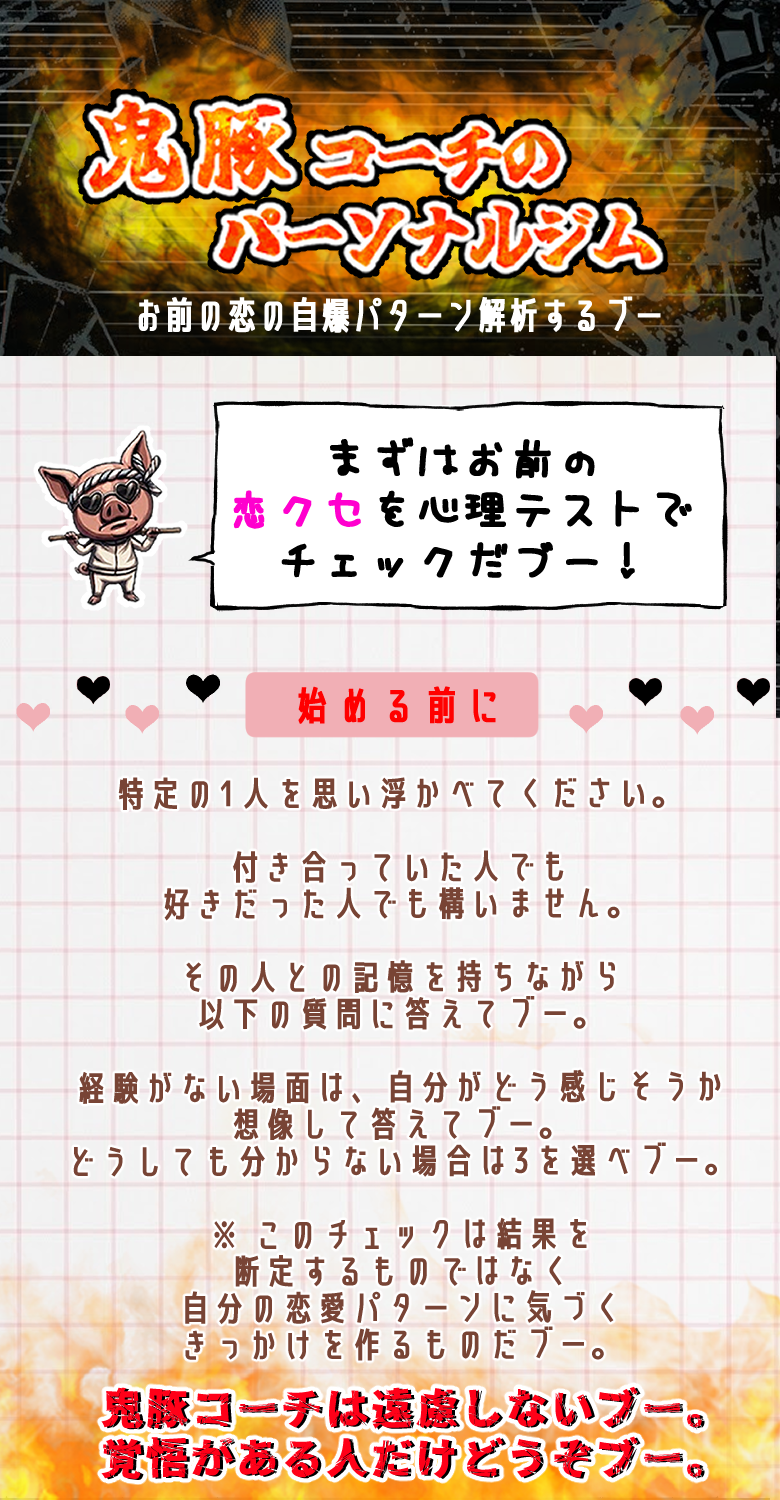
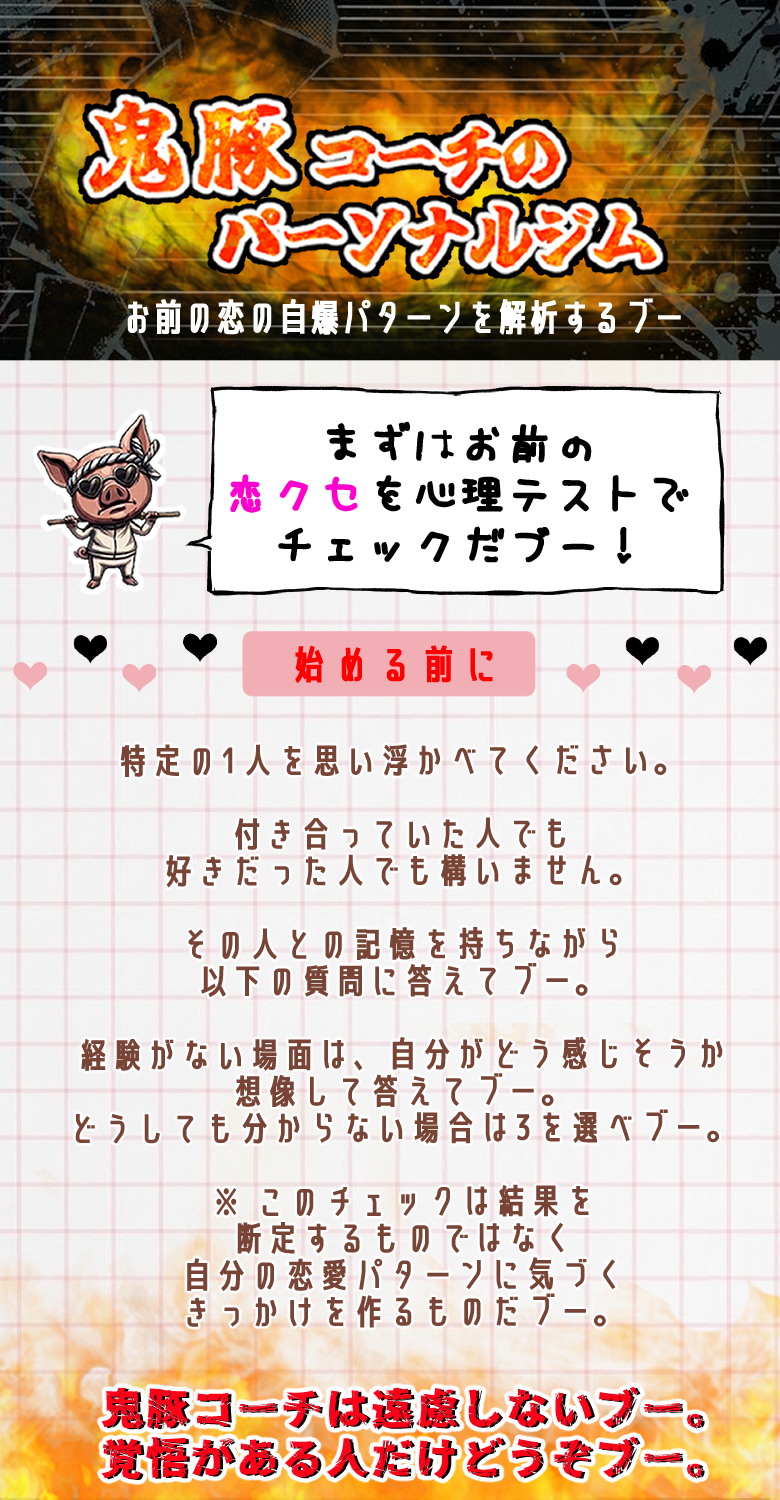
スタート画面リデザイン

diff --git a/src/App.jsx b/src/App.jsx
@@ -158,34 +158,18 @@ export default function App() {
   // START
   if (screen === 'start') {
     return (
-      <div style={{
-        minHeight: "100vh",
-        display: "flex",
-        flexDirection: "column",
-        alignItems: "center",
-        justifyContent: "flex-start",
-        fontFamily: "sans-serif",
-        background: "transparent",
-      }}>
-        {/* 背景1.png + ボタンを重ねるコンテナ */}
-        <div style={{ position: "relative", width: "100%" }}>
-          <img src={bg1Img} alt="背景"
-            style={{ width: "100%", height: "auto", display: "block" }} />
+      <div style={{ background: "#000", margin: 0, padding: 0 }}>
+        {/* 背景1.png：画面幅いっぱい・縦横比保持 */}
+        <img src={bg1Img} alt="背景"
+          style={{ width: "100%", height: "auto", display: "block" }} />
 
-          {/* スタートボタン：背景画像の下部に重ねる */}
-          <div style={{
-            position: "absolute",
-            bottom: "15%",
-            left: "50%",
-            transform: "translateX(-50%)",
-            width: "80%",
-          }}>
-            <button
-              className="start-button"
-              onClick={() => { setCurrentQ(0); setScreen('anchor'); }}>
-              診断スタート
-            </button>
-          </div>
+        {/* 診断スタートボタン：画像の直下 */}
+        <div style={{ display: "flex", justifyContent: "center", padding: "16px 0 32px" }}>
+          <button
+            className="start-button"
+            onClick={() => { setCurrentQ(0); setScreen('anchor'); }}>
+            診断スタート
+          </button>
         </div>
       </div>
     );

diff --git a/src/App.css b/src/App.css
@@ -1,21 +1,23 @@
-/* レスポンシブ対応 */
+/* html・bodyの背景色と余白リセット */
+html, body {
+  background-color: #000;
+  margin: 0;
+  padding: 0;
+}
 
-/* 全画像のサイズ調整 */
+/* 全画像のレスポンシブ対応 */
 img {
   max-width: 100%;
   height: auto;
-}
-
-/* 小さい画面（375px以下）のフォントサイズ */
-@media (max-width: 375px) {
-  body {
-    font-size: 14px;
-  }
+  display: block;
 }
 
 /* 診断スタートボタン */
 .start-button {
-  width: 80%;
+  width: 85%;
+  max-width: 400px;
+  margin: 16px auto;
+  display: block;
   padding: 18px;
   background: #e74c3c;
   color: white;
@@ -25,10 +27,13 @@ img {
   border-radius: 8px;
   cursor: pointer;
   box-shadow: 0 4px 16px rgba(231, 76, 60, 0.6);
-  white-space: nowrap;
 }
 
+/* iPhoneSE（375px以下）の調整 */
 @media (max-width: 375px) {
+  body {
+    font-size: 14px;
+  }
   .start-button {
     font-size: 1.1rem;
     padding: 12px 20px;
